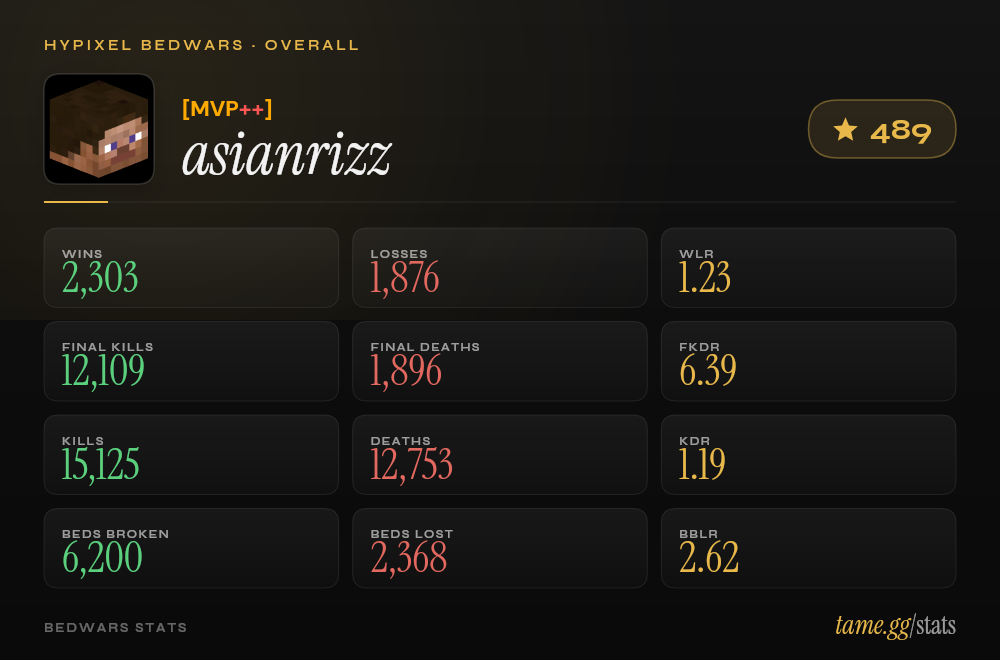
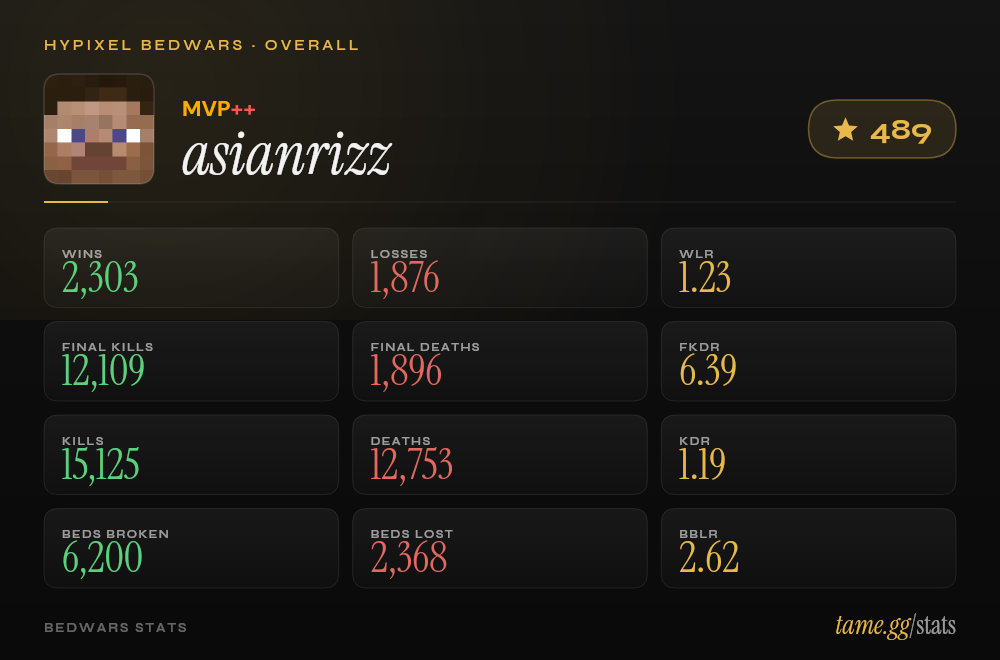
update presence

Changed region(s): [[0.031, 0.0909, 0.155, 0.303], [0.186, 0.1515, 0.279, 0.1818]]

diff --git a/src/presence.ts b/src/presence.ts
@@ -29,7 +29,7 @@ export function applyPresenceConfig(client: Client<true>, config: PresenceConfig
     config.activityType === "custom"
       ? [{ name: "Custom Status", type: ActivityType.Custom, state: message }]
       : config.activityType === "streaming"
-        ? [{ name: message, type: ActivityType.Streaming, url: "https://www.twitch.tv/tamegg" }]
+        ? [{ name: message, type: ActivityType.Streaming, url: "https://www.twitch.tv/notasianrizz }]
         : [{ name: message, type: activityType }];
 
   client.user.setPresence({